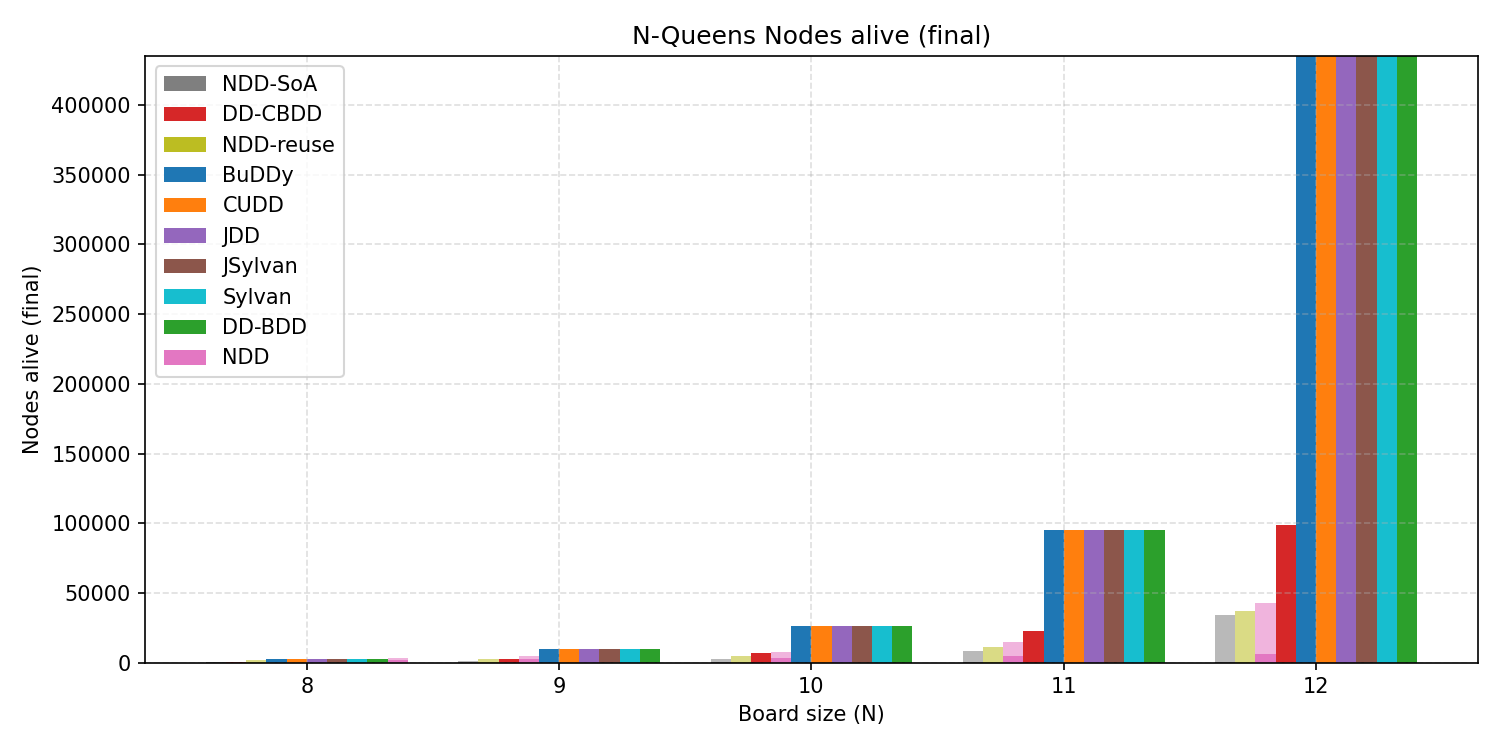
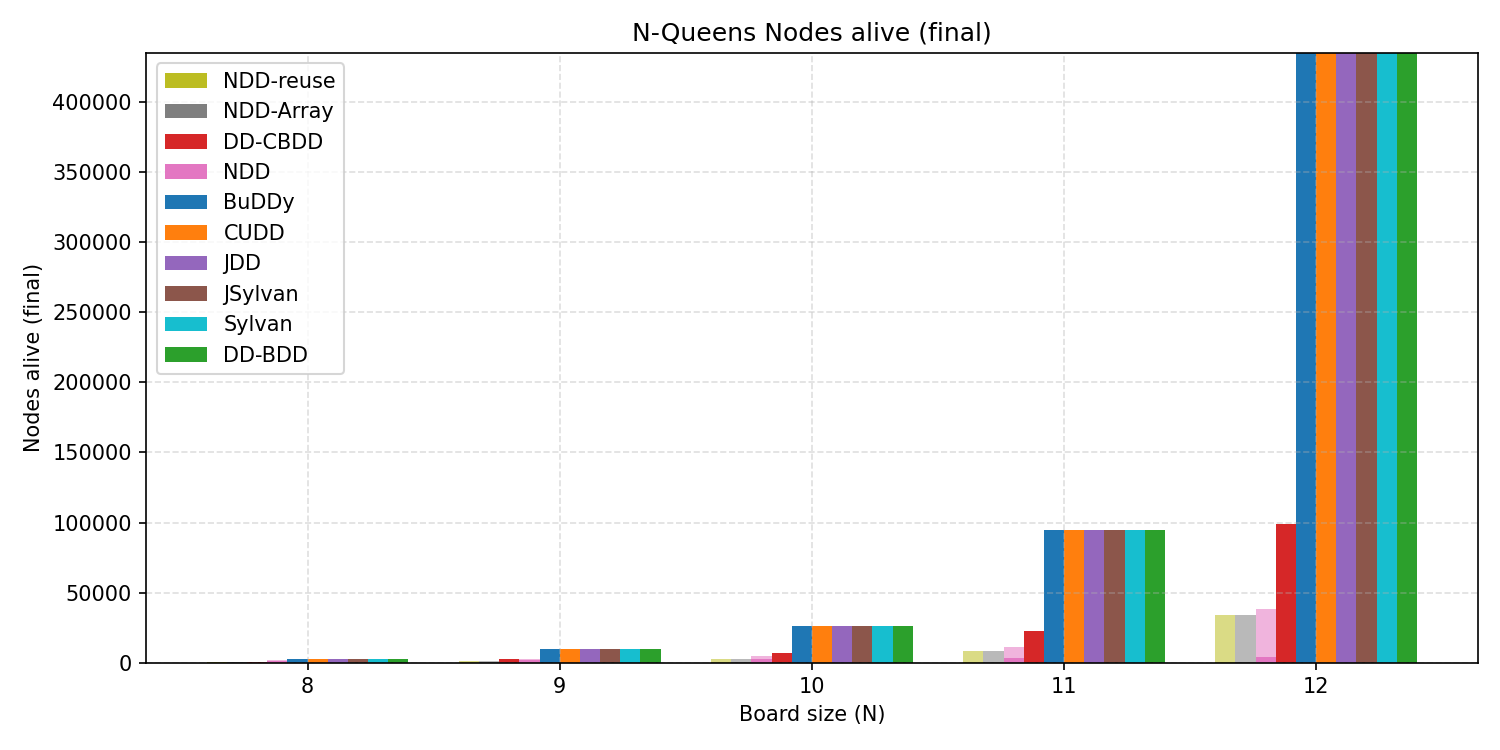
bench: refresh metrics, regenerate plots, sync docs

diff --git a/results/SRE-results.md b/results/SRE-results.md
@@ -8,7 +8,7 @@ Timeout per variant: 14400s
 | bdd | 0.199032349 | 0.697075224 | 169.6MB | 440 | 79270 |
 | ndd | 0.21296372 | 0.697194453 | 217.7MB | 440 | 51649 |
 | ndd-reuse | 0.197991385 | 0.713181288 | 224.9MB | 440 | 44314 |
-| ndd-soa | 0.171329424 | 0.63580931 | 199.1MB | 440 | 40247 |
+| ndd-array | 0.171329424 | 0.63580931 | 199.1MB | 440 | 40247 |
 
 ## dataset=bgp_fattree04, MF=2
 
@@ -17,7 +17,7 @@ Timeout per variant: 14400s
 | bdd | 0.065175369 | 0.507610428 | 102.0MB | 0 | 24968 |
 | ndd | 0.064452769 | 0.49972476 | 101.9MB | 0 | 27377 |
 | ndd-reuse | 0.068398852 | 0.502337077 | 105.4MB | 0 | 27303 |
-| ndd-soa | 0.057704146 | 0.513184718 | 100.6MB | 0 | 27390 |
+| ndd-array | 0.057704146 | 0.513184718 | 100.6MB | 0 | 27390 |
 
 ## dataset=bgp_fattree04, MF=3
 
@@ -26,7 +26,7 @@ Timeout per variant: 14400s
 | bdd | 0.055806707 | 0.454624987 | 101.5MB | 0 | 25848 |
 | ndd | 0.068548047 | 0.48734762 | 100.7MB | 0 | 27959 |
 | ndd-reuse | 0.091853088 | 0.538464628 | 104.8MB | 0 | 27878 |
-| ndd-soa | 0.055611648 | 0.48926326 | 100.9MB | 0 | 28030 |
+| ndd-array | 0.055611648 | 0.48926326 | 100.9MB | 0 | 28030 |
 
 ## dataset=bgp_fattree08, MF=1
 
@@ -35,7 +35,7 @@ Timeout per variant: 14400s
 | bdd | 3.536388235 | 6.964977256 | 2250.7MB | 7392 | 3263633 |
 | ndd | 2.906284374 | 5.032310009 | 1905.2MB | 7392 | 1762586 |
 | ndd-reuse | 2.507999037 | 4.298852012 | 1346.0MB | 7392 | 367425 |
-| ndd-soa | 1.343077991 | 2.69453103 | 772.5MB | 7392 | 278912 |
+| ndd-array | 1.343077991 | 2.69453103 | 772.5MB | 7392 | 278912 |
 
 ## dataset=bgp_fattree08, MF=2
 
@@ -44,7 +44,7 @@ Timeout per variant: 14400s
 | bdd | 13.817159752 | 22.919905736 | 2841.0MB | 16517 | 19077038 |
 | ndd | 12.874106714 | 17.149181016 | 2925.5MB | 16517 | 9250004 |
 | ndd-reuse | 11.126410978 | 14.873414161 | 2353.5MB | 16517 | 860612 |
-| ndd-soa | 4.682225155 | 6.785026264 | 1361.5MB | 16517 | 731104 |
+| ndd-array | 4.682225155 | 6.785026264 | 1361.5MB | 16517 | 731104 |
 
 ## dataset=bgp_fattree08, MF=3
 
@@ -53,7 +53,7 @@ Timeout per variant: 14400s
 | bdd | 68.323042703 | 103.809460087 | 3749.2MB | 31436 | 85595315 |
 | ndd | 51.713371101 | 60.828954399 | 4220.4MB | 31436 | 38199434 |
 | ndd-reuse | 46.234172397 | 55.413865268 | 3441.0MB | 31436 | 3546018 |
-| ndd-soa | 21.05702101 | 25.602449596 | 2046.0MB | 31436 | 3208829 |
+| ndd-array | 21.05702101 | 25.602449596 | 2046.0MB | 31436 | 3208829 |
 
 ## dataset=bgp_fattree12, MF=1
 
@@ -62,7 +62,7 @@ Timeout per variant: 14400s
 | bdd | 99.783163339 | 141.636128202 | 22220.5MB | 37944 | 57000492 |
 | ndd | 27.687420029 | 45.079233791 | 13093.6MB | 37944 | 25421970 |
 | ndd-reuse | 15.892849041 | 32.499337508 | 13185.6MB | 37944 | 3284649 |
-| ndd-soa | 8.801349052 | 22.166407239 | 13016.2MB | 37944 | 2065690 |
+| ndd-array | 8.801349052 | 22.166407239 | 13016.2MB | 37944 | 2065690 |
 
 ## dataset=bgp_fattree12, MF=2
 
@@ -71,7 +71,7 @@ Timeout per variant: 14400s
 | bdd | 385.496728907 | 507.192693855 | 27242.9MB | 85192 | 404400659 |
 | ndd | 135.42850768 | 166.342765035 | 19750.4MB | 85192 | 156330370 |
 | ndd-reuse | 82.505692639 | 113.480130675 | 18459.1MB | 85192 | 14912726 |
-| ndd-soa | 39.67628597 | 58.258226109 | 14241.1MB | 85192 | 13756762 |
+| ndd-array | 39.67628597 | 58.258226109 | 14241.1MB | 85192 | 13756762 |
 
 ## dataset=bgp_fattree12, MF=3
 
@@ -80,7 +80,7 @@ Timeout per variant: 14400s
 | bdd | 1373.223894428 | 2350.774409071 | 29826.8MB | 163130 | 1539299055 |
 | ndd | 544.870183665 | 636.086437962 | 26274.3MB | 163130 | 645702063 |
 | ndd-reuse | 340.786929547 | 406.649415653 | 30967.7MB | 163130 | 81710193 |
-| ndd-soa | 196.264904096 | 230.905827854 | 18113.7MB | 163130 | 61386922 |
+| ndd-array | 196.264904096 | 230.905827854 | 18113.7MB | 163130 | 61386922 |
 
 ## dataset=bgp_fattree16, MF=1
 
@@ -89,7 +89,7 @@ Timeout per variant: 14400s
 | bdd | 950.022085188 | 1126.586307379 | 30921.9MB | 115904 | 558517731 |
 | ndd | 140.662066441 | 186.545315128 | 20992.3MB | 115904 | 192411499 |
 | ndd-reuse | 91.122479242 | 135.368235883 | 21377.9MB | 115904 | 20316876 |
-| ndd-soa | 48.776411429 | 76.189433182 | 17331.0MB | 115904 | 15689306 |
+| ndd-array | 48.776411429 | 76.189433182 | 17331.0MB | 115904 | 15689306 |
 
 ## dataset=bgp_fattree16, MF=2
 
@@ -98,7 +98,7 @@ Timeout per variant: 14400s
 | bdd | >14400s | >14400s | N/A | N/A | N/A | timeout>14400s |
 | ndd | 1066.502401085 | 1178.287171806 | 34679.7MB | 256246 | 1437319312 |
 | ndd-reuse | 605.394118373 | 721.51310894 | 32638.6MB | 256246 | 179729273 |
-| ndd-soa | 402.775790136 | 472.056353484 | 22359.3MB | 256246 | 164723549 |
+| ndd-array | 402.775790136 | 472.056353484 | 22359.3MB | 256246 | 164723549 |
 
 ## dataset=bgp_fattree16, MF=3
 
@@ -107,7 +107,7 @@ Timeout per variant: 14400s
 | bdd | >14400s | >14400s | N/A | N/A | N/A |
 | ndd | 7012.950610834 | 7345.012811346 | 69471.1MB | 484951 | 3401452892 |
 | ndd-reuse | 3388.764826264 | 3722.195997192 | 64700.5MB | 484951 | 1982221370 |
-| ndd-soa | 2159.542173304 | 2367.636974608 | 41078.4MB | 484951 | 1572775889 |
+| ndd-array | 2159.542173304 | 2367.636974608 | 41078.4MB | 484951 | 1572775889 |
 
 ## dataset=bgp_fattree20, MF=1
 
@@ -116,7 +116,7 @@ Timeout per variant: 14400s
 | bdd | >14400s | >14400s | N/A | N/A | N/A |
 | ndd | 769.798916337 | 898.226961354 | 34475.4MB | 289400 | 1003083901 |
 | ndd-reuse | 404.179502731 | 517.479194306 | 34536.3MB | 289400 | 105961803 |
-| ndd-soa | 279.78942101 | 386.704613504 | 33879.4MB | 289400 | 94553481 |
+| ndd-array | 279.78942101 | 386.704613504 | 33879.4MB | 289400 | 94553481 |
 
 ## dataset=bgp_fattree20, MF=2
 
@@ -125,7 +125,7 @@ Timeout per variant: 14400s
 | bdd | >14400s | >14400s | N/A | N/A | N/A |
 | ndd | 6926.554867672 | 7356.703514343 | 69615.5MB | 644962 | 4356705616 |
 | ndd-reuse | 3480.311607732 | 3836.447385128 | 65522.6MB | 644962 | 1583507510 |
-| ndd-soa | 2462.811439699 | 2697.611333916 | 53784.7MB | 644962 | 1531851671 |
+| ndd-array | 2462.811439699 | 2697.611333916 | 53784.7MB | 644962 | 1531851671 |
 
 ## dataset=bgp_fattree20, MF=3
 
@@ -134,4 +134,4 @@ Timeout per variant: 14400s
 | bdd | >14400s | >14400s | N/A | N/A | N/A |
 | ndd | >14400s | >14400s | N/A | N/A | N/A | 
 | ndd-reuse | >14400s | >14400s | N/A | N/A | N/A | 
-| ndd-soa | >14400s | >14400s | N/A | N/A | N/A | 
+| ndd-array | >14400s | >14400s | N/A | N/A | N/A | 
